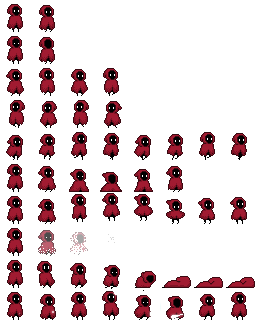
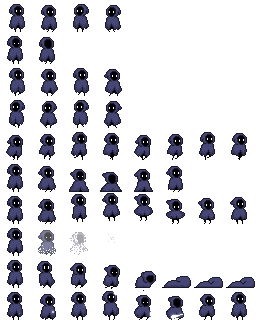
Changed player and map

diff --git a/assets/maps/maptiles.tsx b/assets/maps/maptiles.tsx
@@ -1,4 +1,4 @@
 <?xml version="1.0" encoding="UTF-8"?>
-<tileset version="1.10" tiledversion="1.10.2" name="Terrain" tilewidth="32" tileheight="32" tilecount="77" columns="11">
- <image source="Terrain.png" trans="ff00ff" width="352" height="224"/>
+<tileset version="1.10" tiledversion="1.10.2" name="Terrain" tilewidth="32" tileheight="32" tilecount="128" columns="8">
+ <image source="cloud_tileA.png" trans="ff00ff" width="256" height="512"/>
 </tileset>

diff --git a/core/src/com/mygdx/game/Player.java b/core/src/com/mygdx/game/Player.java
@@ -6,6 +6,9 @@ import com.badlogic.gdx.graphics.g2d.SpriteBatch;
 import com.badlogic.gdx.graphics.g2d.TextureRegion;
 import com.badlogic.gdx.math.Vector2;
 import com.badlogic.gdx.physics.box2d.*;
+import com.mygdx.game.utils.Assets;
+
+import java.util.Objects;
 
 import static com.mygdx.game.utils.Constants.*;
 import static com.mygdx.game.utils.Constants.PPM;
@@ -16,19 +19,21 @@ public class Player {
 
     private float speed = 5f;
     private Vector2 vel = new Vector2(0, 0);
-
-    float idleStateTime = 1;
-    float walkStateTime = 4;
+    private Vector2 lastVel = new Vector2(1, 0);
+    private float idleStateTime = 1;
+    private float walkStateTime = 4;
     private float zSpeed = 0;
-    private float jumpSpeed = -.035f;
-    private float gameGravity = .1f;
+    private float jumpSpeed = -.1f;
+    private float gameGravity = .2f;
     private float z = 0;
     private float zFloor = 0;
+
+    private float jumpZ;
+    private boolean isJumping;
 
     public Player(Vector2 startPosition, World world) {
         super();
         this.world = world;
-        vel = startPosition;
 
         bPlayer = createBody(startPosition.x, startPosition.y, 32, 32, false, BIT_PLAYER, BIT_WALL, (short) 0);
     }
@@ -38,37 +43,45 @@ public class Player {
     }
 
     public void updateAnimation(float delta, SpriteBatch batch) {
+        walkStateTime -= delta;
+        if(walkStateTime < 0)
+            walkStateTime = 4;
 
-        if(vel.isZero()) {
-            idleStateTime -= delta;
-            if(idleStateTime < 0)
-                idleStateTime = 4;
+        idleStateTime -= delta;
+        if(idleStateTime < 0)
+            idleStateTime = 1;
 
-            batch.draw(
-                    (TextureRegion) Assets.idle_down_anim.getKeyFrame(idleStateTime, true),
-                    GetPosition().x * PPM - ((float) Assets.idle_down_sheet.getRegionWidth() / 2),
-                    GetPosition().y * PPM - ((float) Assets.idle_down_sheet.getRegionHeight() / 2));
-        }
         if(vel.x > 0) {
-            walkStateTime -= delta;
-            if(walkStateTime < 0)
-                walkStateTime = 4;
-
-            batch.draw(
-                    (TextureRegion) Assets.walk_right_anim.getKeyFrame(walkStateTime, true),
-                    GetPosition().x * PPM - ((float) Assets.idle_down_sheet.getRegionWidth() / 2),
-                    GetPosition().y * PPM - ((float) Assets.idle_down_sheet.getRegionHeight() / 2));
+            setBatchTexture(batch, (TextureRegion) Assets.walk_right_anim.getKeyFrame(walkStateTime, true));
         }
         if(vel.x < 0){
-            walkStateTime -= delta;
-            if(walkStateTime < 0)
-                walkStateTime = 4;
-
-            batch.draw(
-                    (TextureRegion) Assets.walk_left_anim.getKeyFrame(walkStateTime, true),
-                    GetPosition().x * PPM - ((float) Assets.idle_down_sheet.getRegionWidth() / 2),
-                    GetPosition().y * PPM - ((float) Assets.idle_down_sheet.getRegionHeight() / 2));
+            setBatchTexture(batch, (TextureRegion) Assets.walk_left_anim.getKeyFrame(walkStateTime, true));
         }
+        if(vel.y > 0 && lastVel.x > 0 ) {
+            setBatchTexture(batch, (TextureRegion) Assets.walk_right_anim.getKeyFrame(walkStateTime, true));
+        }
+        if(vel.y > 0 && lastVel.x < 0 ) {
+            setBatchTexture(batch, (TextureRegion) Assets.walk_left_anim.getKeyFrame(walkStateTime, true));
+        }
+        if(vel.y < 0 && lastVel.x > 0 ) {
+            setBatchTexture(batch, (TextureRegion) Assets.walk_right_anim.getKeyFrame(walkStateTime, true));
+        }
+        if(vel.y < 0 && lastVel.x < 0 ) {
+            setBatchTexture(batch, (TextureRegion) Assets.walk_left_anim.getKeyFrame(walkStateTime, true));
+        }
+        if(lastVel.x > 0 && vel.isZero()) {
+            setBatchTexture(batch, (TextureRegion) Assets.idle_right_anim.getKeyFrame(walkStateTime, true));
+        }
+        if(lastVel.x < 0 && vel.isZero()) {
+            setBatchTexture(batch, (TextureRegion) Assets.idle_left_anim.getKeyFrame(walkStateTime, true));
+        }
+    }
+
+    private void setBatchTexture(SpriteBatch batch, TextureRegion texture) {
+        batch.draw(
+                texture,
+                GetPosition().x * PPM - ((float) Assets.idle_down_sheet.getRegionWidth() / 2),
+                GetPosition().y * PPM - ((float) Assets.idle_down_sheet.getRegionHeight() / 2));
     }
 
     public Vector2 GetPosition() {
@@ -79,20 +92,56 @@ public class Player {
         vel.x = 0;
         vel.y = 0;
 
-        if(Gdx.input.isKeyPressed(Input.Keys.D)){
+        if(Gdx.input.isKeyPressed(Input.Keys.D)) {
             vel.x += 1;
+            lastVel.x = 1;
         }
-        if(Gdx.input.isKeyPressed(Input.Keys.A)){
+        if(Gdx.input.isKeyPressed(Input.Keys.A)) {
             vel.x -= 1;
+            lastVel.x = -1;
         }
-        if(Gdx.input.isKeyPressed(Input.Keys.W)){
+        if(Gdx.input.isKeyPressed(Input.Keys.W)) {
             vel.y += 1;
+            lastVel.y = 1;
         }
-        if(Gdx.input.isKeyPressed(Input.Keys.S)){
+        if(Gdx.input.isKeyPressed(Input.Keys.S)) {
             vel.y -= 1;
+            lastVel.y = -1;
         }
 
+        if(Objects.equals(vel, new Vector2(1, 1)))
+            vel = new Vector2(ONE_ON_ROOT_TWO, ONE_ON_ROOT_TWO);
+        if(Objects.equals(vel, new Vector2(-1, -1)))
+            vel = new Vector2(-ONE_ON_ROOT_TWO, -ONE_ON_ROOT_TWO);
+        if(Objects.equals(vel, new Vector2(-1, 1)))
+            vel = new Vector2(-ONE_ON_ROOT_TWO, ONE_ON_ROOT_TWO);
+        if(Objects.equals(vel, new Vector2(1, -1)))
+            vel = new Vector2(ONE_ON_ROOT_TWO, -ONE_ON_ROOT_TWO);
+
+/*        if(Gdx.input.isKeyPressed(Input.Keys.SPACE) && zSpeed == 0){
+            isJumping = true;
+            jumpZ = bPlayer.getPosition().y;
+            zSpeed = jumpSpeed;
+        }
+        if(z != zFloor){
+            zSpeed += gameGravity * deltaTime;
+        }
+        if(z + zSpeed > zFloor){
+            zSpeed = 0;
+            z = zFloor;
+            isJumping = false;
+        }
+        z += zSpeed;
+
+        if(isJumping){
+            bPlayer.setTransform(bPlayer.getPosition().x,  jumpZ - z,0);
+        } else {
+            bPlayer.setLinearVelocity(vel.x * speed, vel.y * speed);
+        }
+*/
         bPlayer.setLinearVelocity(vel.x * speed, vel.y * speed);
+
+        System.out.println(bPlayer.getPosition() + " : " + z);
     }
 
     private Body createBody(float x, float y, int width, int height, boolean isStatic, short cBits, short mBits, short gIndex) {

diff --git a/core/src/com/mygdx/game/utils/TileMapHelper.java b/core/src/com/mygdx/game/utils/TileMapHelper.java
@@ -7,6 +7,8 @@ import com.badlogic.gdx.maps.tiled.TiledMap;
 import com.badlogic.gdx.math.Vector2;
 import com.badlogic.gdx.physics.box2d.*;
 
+import static com.mygdx.game.utils.Constants.*;
+
 public class TileMapHelper {
     private TiledMap tiledMap;
     private World world;
@@ -14,13 +16,13 @@ public class TileMapHelper {
     public TileMapHelper(World world, TiledMap tiledMap) {
         this.world = world;
         this.tiledMap = tiledMap;
-        parseTiledObjectLayer(tiledMap.getLayers().get("objects").getObjects());
+        parseTiledObjectLayer(tiledMap.getLayers().get("colliders").getObjects());
     }
 
     public void parseTiledObjectLayer(MapObjects mapObjects){
         for(MapObject mapObject : mapObjects){
             if(mapObject instanceof PolygonMapObject){
-                createStaticBody(world, (PolygonMapObject) mapObject);
+                createStaticBody(world, (PolygonMapObject) mapObject, BIT_WALL, BIT_WALL, (short) 0);
             }
         }
     }
@@ -32,6 +34,24 @@ public class TileMapHelper {
         body = world.createBody(bdef);
         Shape shape = createPolygonShape(polygonMapObject);
         body.createFixture(shape, 1000f);
+        shape.dispose();
+    }
+
+    private void createStaticBody(World world, PolygonMapObject polygonMapObject, short cBits, short mBits, short gIndex) {
+        Body body;
+        BodyDef bdef = new BodyDef();
+        bdef.type = BodyDef.BodyType.StaticBody;
+        body = world.createBody(bdef);
+        Shape shape = createPolygonShape(polygonMapObject);
+
+        FixtureDef fixtureDef = new FixtureDef();
+        fixtureDef.shape = shape;
+        fixtureDef.density = 2f;
+        fixtureDef.filter.categoryBits = cBits; // Is a
+        fixtureDef.filter.maskBits = mBits; // Collide with
+        fixtureDef.filter.groupIndex = gIndex;
+
+        body.createFixture(fixtureDef).getBody();
         shape.dispose();
     }
 

diff --git a/core/src/com/mygdx/game/utils/Assets.java b/core/src/com/mygdx/game/utils/Assets.java
@@ -1,4 +1,4 @@
-package com.mygdx.game;
+package com.mygdx.game.utils;
 
 import com.badlogic.gdx.Gdx;
 import com.badlogic.gdx.graphics.Texture;
@@ -16,7 +16,8 @@ public class Assets {
     public static TextureRegion idle_left_sheet;
     public static TextureRegion idle_right_sheet;
 
-    public static Animation idle_down_anim;
+    public static Animation idle_right_anim;
+    public static Animation idle_left_anim;
     public static Animation walk_right_anim;
     public static Animation walk_left_anim;
 
@@ -42,15 +43,18 @@ public class Assets {
 
         idle_down_sheet = new TextureRegion(character, 0, 0, 32, 32);
 
-        idle_down_anim = new Animation(0.5f,
+        idle_right_anim = new Animation(0.25f,
                 new TextureRegion(character,0, 0, 32, 32),
                 new TextureRegion(character, 32, 0, 32, 32));
-        walk_right_anim = new Animation(0.5f,
+        idle_left_anim = new Animation(0.25f,
+                new TextureRegion(character,64, 0, 32, 32),
+                new TextureRegion(character, 96, 0, 32, 32));
+        walk_right_anim = new Animation(0.1f,
                 new TextureRegion(character,0, 64, 32, 32),
                 new TextureRegion(character, 32, 64, 32, 32),
                 new TextureRegion(character, 64, 64, 32, 32),
                 new TextureRegion(character, 96, 64, 32, 32));
-        walk_left_anim = new Animation(0.5f,
+        walk_left_anim = new Animation(0.1f,
                 new TextureRegion(character,0, 96, 32, 32),
                 new TextureRegion(character, 32, 96, 32, 32),
                 new TextureRegion(character, 64, 96, 32, 32),

diff --git a/core/src/com/mygdx/game/GameScreen.java b/core/src/com/mygdx/game/GameScreen.java
@@ -12,6 +12,7 @@ import com.badlogic.gdx.math.Vector2;
 import com.badlogic.gdx.math.Vector3;
 import com.badlogic.gdx.physics.box2d.*;
 import com.badlogic.gdx.utils.ScreenUtils;
+import com.mygdx.game.utils.Assets;
 import com.mygdx.game.utils.TileMapHelper;
 
 import static com.mygdx.game.utils.Constants.*;
@@ -22,13 +23,6 @@ public class GameScreen implements Screen {
     private World world;
     private Box2DDebugRenderer box2DDebugRenderer;
     private SpriteBatch batch;
-
-/*    private float zSpeed = 0;
-    private float jumpSpeed = -.035f;
-    private float gameGravity = .1f;
-    private float z = 0;
-    private float zFloor = 0;*/
-
     private Player player;
     private OrthogonalTiledMapRenderer orthogonalTiledMapRenderer;
     private TiledMap map;
@@ -60,9 +54,9 @@ public class GameScreen implements Screen {
     public void render(float delta) {
         update(Gdx.graphics.getDeltaTime());
 
-        Gdx.gl.glClearColor(0, 0, 0, 1);
+        Gdx.gl.glClearColor(0.06f, 0.06f, 0.08f, 1);
         Gdx.gl.glClear(GL20.GL_COLOR_BUFFER_BIT);
-        ScreenUtils.clear(0, 0, 0, 1);
+        ScreenUtils.clear(0.06f, 0.06f, 0.08f, 1);
 
         orthogonalTiledMapRenderer.render();
         box2DDebugRenderer.render(world, camera.combined.scl(PPM));

diff --git a/core/src/com/mygdx/game/utils/Constants.java b/core/src/com/mygdx/game/utils/Constants.java
@@ -4,7 +4,8 @@ public final class Constants {
     public static final short BIT_WALL = 1;
     public static final short BIT_PLAYER = 2;
 
-    public static final float SCALE = 3f;
+    public static final float SCALE = 2f;
+    public static final float ONE_ON_ROOT_TWO = (float) (1.0 / Math.sqrt(2));
 
     public static final float PPM = 32;
 }

diff --git a/core/src/com/mygdx/game/MyGdxGame.java b/core/src/com/mygdx/game/MyGdxGame.java
@@ -1,6 +1,7 @@
 package com.mygdx.game;
 
 import com.badlogic.gdx.Game;
+import com.mygdx.game.utils.Assets;
 
 public class MyGdxGame extends Game {
 
